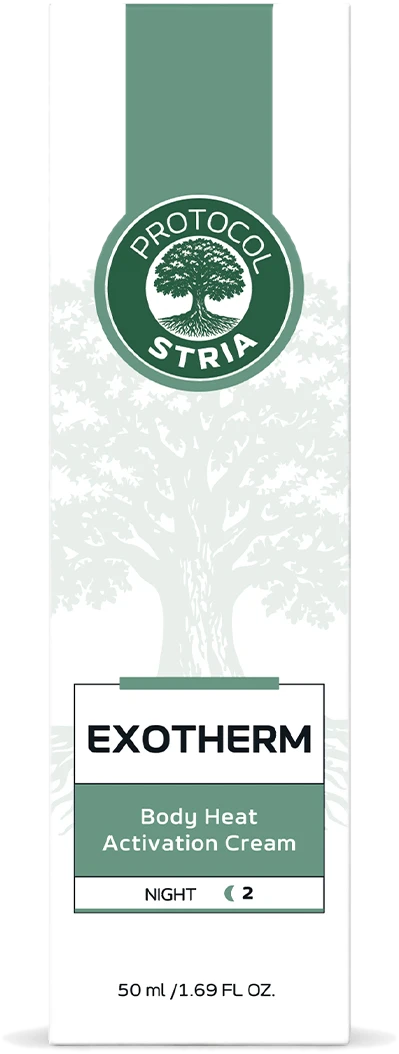
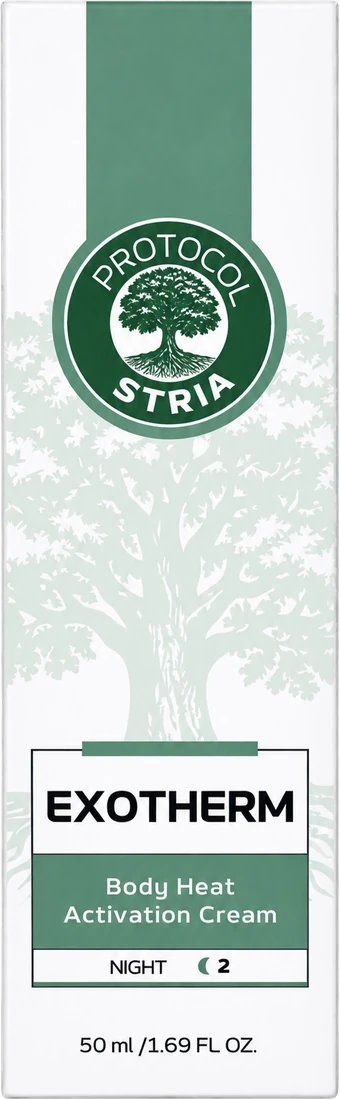
Ürün görselleri: Exopca ve Exotherm yenilendi, tüm ürünler aynı boyda hizalandı
Exopca ve Exotherm kutuları yeni fotoğraflardan kesildi; bütün ürün
görsellerinin boş kenarları kırpıldı. Kartlarda ve ürün sayfalarında her ürün
aynı yükseklikte, aynı tabana oturuyor. Görsel adreslerine sürüm eklendi.

Claude-Session: https://claude.ai/code/session_01XvpMot7LqxZbjZwDPzSGNi

diff --git a/src/styles.css b/src/styles.css
@@ -975,12 +975,13 @@ a:hover > .arrow,
   transform: translateZ(10px);
 }
 .pcard-stage img {
+  /* every product stands on the same line at the same height (the soap may run wider) */
   position: absolute;
-  inset: 0;
-  margin: auto;
-  height: 68%;
+  inset: auto 0 15% 0;
+  margin: 0 auto;
+  height: 66%;
   width: auto;
-  max-width: 68%;
+  max-width: 86%;
   object-fit: contain;
   transform: translateZ(28px);
   transition: transform 0.9s var(--ease);
@@ -1186,11 +1187,11 @@ a:hover > .arrow,
 }
 .rcard-stage img {
   position: absolute;
-  inset: 0;
-  margin: auto;
-  height: 70%;
+  inset: auto 0 14% 0;
+  margin: 0 auto;
+  height: 68%;
   width: auto;
-  max-width: 64%;
+  max-width: 86%;
   object-fit: contain;
   transform: translateZ(24px);
   filter: drop-shadow(0 24px 24px rgba(0, 0, 0, 0.22));
@@ -1637,18 +1638,18 @@ a:hover > .arrow,
 }
 .prod-shot img {
   position: absolute;
-  inset: 0;
-  margin: auto;
+  inset: auto 0 12% 0;
+  margin: 0 auto;
   height: 74%;
   width: auto;
-  max-width: 70%;
+  max-width: 88%;
   object-fit: contain;
   transform: translateZ(30px);
   filter: drop-shadow(0 50px 50px rgba(0, 0, 0, 0.45));
 }
 .prod-floor {
   position: absolute;
-  bottom: 5%;
+  bottom: 10%;
   width: 46%;
   height: 26px;
   border-radius: 50%;

diff --git a/src/data/index.ts b/src/data/index.ts
@@ -29,7 +29,9 @@ export const policies = policiesJson as { title: string; blocks: { h?: string; p
 
 const BASE = import.meta.env.BASE_URL
 export const img = (name: string) => `${BASE}img/${name}.webp`
-export const productImg = (slug: string) => img(`p-${slug}`)
+// bump when product photos are replaced, so browsers drop their cached copies
+const PRODUCT_IMG_VERSION = '2'
+export const productImg = (slug: string) => `${img(`p-${slug}`)}?v=${PRODUCT_IMG_VERSION}`
 export const bySlug = (slug?: string) => products.find(p => p.slug === slug)
 export const lineProducts = (line: Line) => products.filter(p => p.line === line)
 
